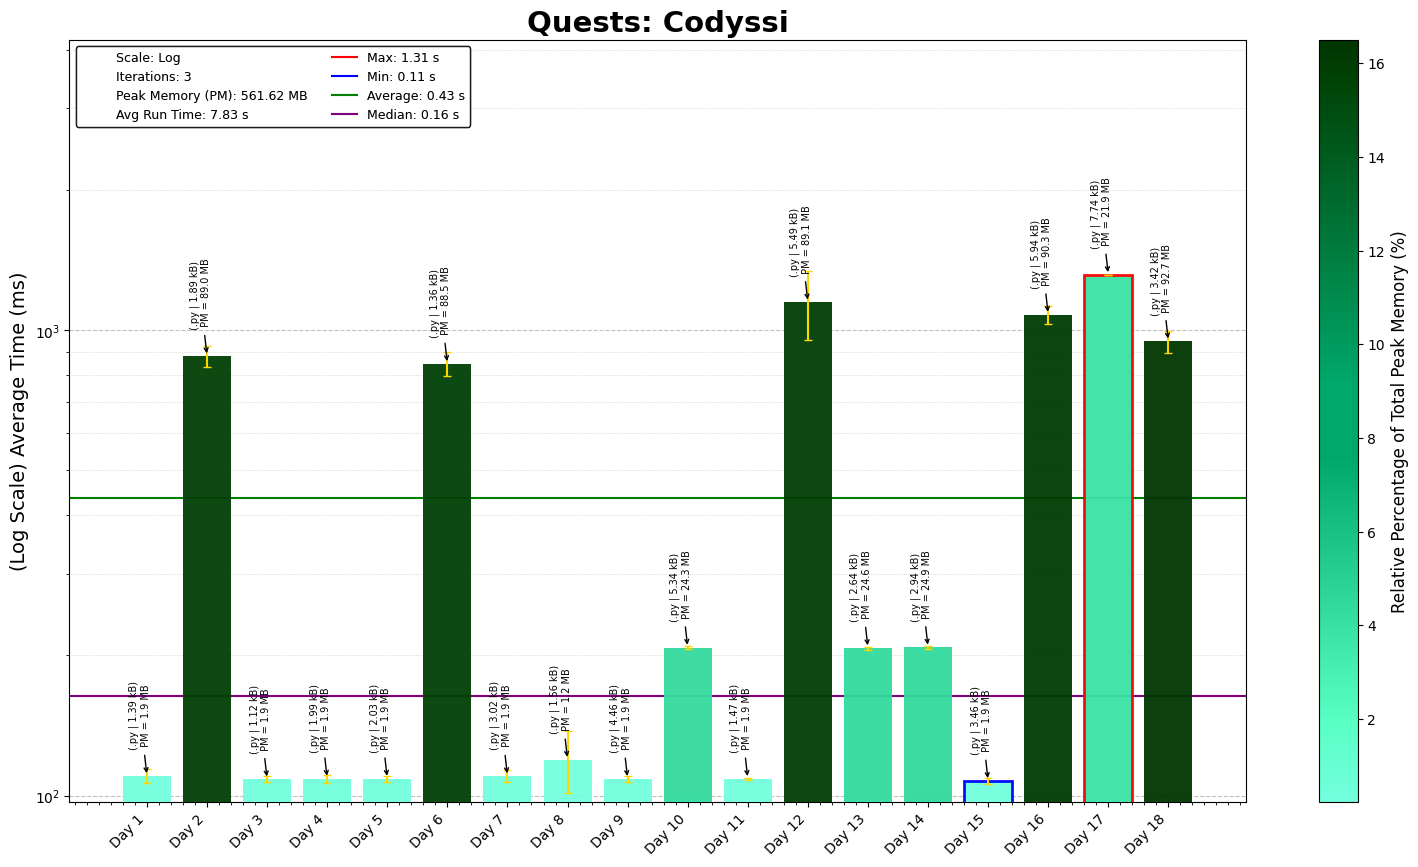
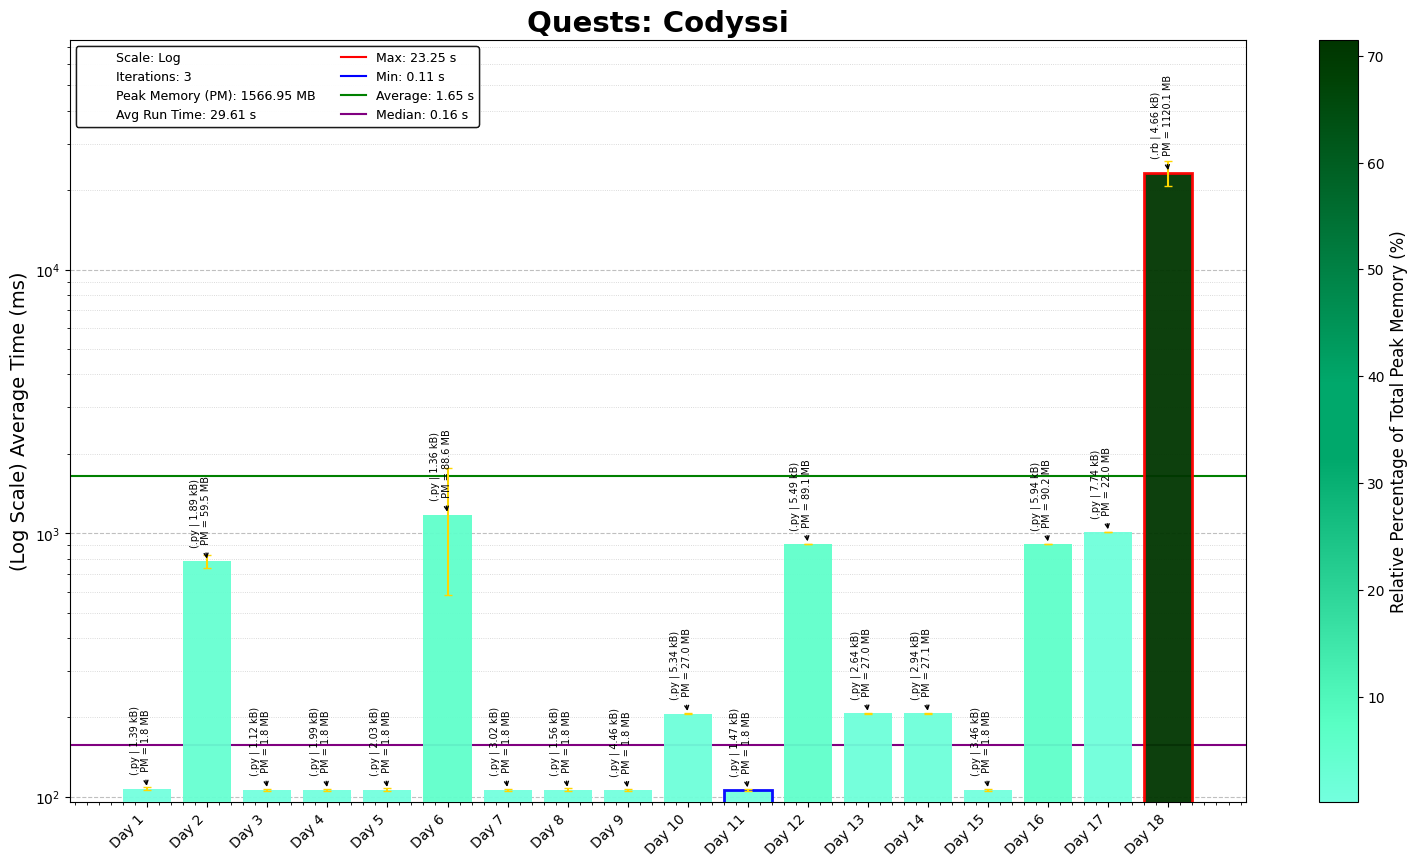
Codyssi Day 18 P2 (~23s)

diff --git a/Codyssi/2025/18/AltCodyssiDay18.py b/Codyssi/2025/18/AltCodyssiDay18.py
@@ -7,17 +7,12 @@ Brief: [Cataclysmic Escape]
 
 #!/usr/bin/env python3
 
-import os, re, copy, time
+import os, re, copy, time, heapq
 from itertools import product
-import numpy as np
-import pandas as pd
-import matplotlib.pyplot as plt
 start_time = time.time()
 
-from collections import deque
-from itertools import product
 # Load the input data from the specified file path
-D18_file = "Day18_input3.txt"
+D18_file = "Day18_input.txt"
 D18_file_path = os.path.join(os.path.dirname(os.path.abspath(__file__)), D18_file)
 
 # Read and sort input data into a grid
@@ -26,16 +21,15 @@ with open(D18_file_path) as file:
     feasible_spaces = {
         "Day18_input1.txt":((10, 15, 60, 3), (9, 14, 59, 0)), "Day18_input2.txt":((3,3,5,3),(2, 2, 4, 0)),
         "Day18_input.txt": ((10, 15, 60, 3),(9, 14, 59, 0)), "Day18_input3.txt":((10, 15, 60, 3), (9, 14, 59, 0))}
-    feasible, target = feasible_spaces[D18_file]
+    feasible, target_coords = feasible_spaces[D18_file]
 
 class Submarine:
     def __init__(self, all_rules, feasible_space):
+        MIN_LIMITS = (0, 0, 0, -1)
         self.idx_map = {"x": 0, "y": 1, "z": 2, "a": 3}
-        self.feasible_space = feasible_space
         self.rule_dict = {}
         for rule in all_rules:
             self.parse_rules(rule)
-        MIN_LIMITS = (0, 0, 0, -1)
         self.space_region = {
             "x" : range(MIN_LIMITS[0], feasible_space[0]),
             "y" : range(MIN_LIMITS[1], feasible_space[1]),
@@ -104,72 +98,71 @@ class Submarine:
         else:
             return pos  # No movement if out-of-bounds
 
+    def __move_particle(self, rule, particle, time = 1, wrapping = True):
+        new_coords = []
+        for dim, idx in self.idx_map.items():
+            velocity = self.rule_dict[rule]["v" + dim]
+            delta = velocity * time
+            moved_pos = self.__wrapped_move(particle[idx], delta, dim, wrapping)
+            new_coords.append(moved_pos)
+        return tuple(new_coords)
+
     def __move_in_dimension(self, coords, move, time = 1, wrapping = False):
         dim, velocity = move
         dim_idx = self.idx_map[dim]
-
         delta = velocity * time
         new_coords = list(coords).copy()
         new_coords[dim_idx] = self.__wrapped_move(coords[dim_idx], delta, dim, wrapping)
         return tuple(new_coords)
 
-    def __move_particle(self, rule, particle, time = 1, wrapping = True):
-        new_coords = []
-        for dim, idx in self.idx_map.items():
-            velocity = self.rule_dict[rule]["v" + dim]
-            # velocity = (1, -1, 0, 1)[idx]
-            delta = velocity * time
-            moved_pos = self.__wrapped_move(particle[idx], delta, dim, wrapping)
-            new_coords.append(moved_pos)
-
-        return tuple(new_coords)
-
     def find_flight_path(self, target, start=(0, 0, 0, 0)):
         ALL_MOVES = list(product(("x", "y", "z"), (1, -1, 0)))
-        debris_map = self.debris_map.copy()
-        visited = set()
-        queue = deque([(start, 0)])
-        position_history = {0: debris_map}
-        min_time = float("inf")
+        MAX_TIME = 200  # upper limit to search; tweak as needed
+        og_debris_map = self.debris_map.copy()
 
-        while queue:
-            current_pos, time_step = queue.popleft()
-            print(current_pos, time_step)
+        # Precompute debris positions per timestep
+        debris_by_time = {0: og_debris_map}
+        for t in range(1, MAX_TIME + 1):
+            for rule, pos in og_debris_map:
+                debris_pos = self.__move_particle(rule, pos, t)
+                debris_by_time.setdefault(t, set()).add(debris_pos)
 
-            if current_pos == target:
-                min_time = min(min_time, time_step)
-                # break
-            if (time_step > min_time) or ((current_pos, time_step) in visited):
+        # Dijkstra/BFS with time dimension
+        heap = [(0, start)]  # (time, position)
+        visited = set()  # track (position, time)
+
+        while heap:
+            time, pos = heapq.heappop(heap)
+
+            if pos == target:
+                return time
+
+            if (pos, time) in visited:
                 continue
-            visited.add((current_pos, time_step))
+            visited.add((pos, time))
 
-            # Compute occupied space by debris at next time step
-            next_time = time_step + 1
-            if next_time in position_history.keys():
-                occupied_space = position_history[next_time].copy()
+            next_time = time + 1
+            if next_time in debris_by_time:
+                occupied = debris_by_time[next_time]
             else:
-                occupied_space = {
-                    self.__move_particle(rule, init_pos, next_time)
-                    for rule, init_pos in debris_map
+                debris_by_time[next_time] = {
+                    self.__move_particle(rule, pos, next_time)
+                        for rule, pos in og_debris_map
                 }
-                position_history[next_time] = occupied_space
 
-            # Try all possible single-dimension moves
             for move in ALL_MOVES:
-                next_pos = self.__move_in_dimension(current_pos, move, time=1)
+                next_pos = self.__move_in_dimension(pos, move, 1)
+                if next_pos not in occupied or next_pos == start:
+                    heapq.heappush(heap, (next_time, next_pos))
 
-                if next_pos not in occupied_space:
-                    queue.append((next_pos, next_time))
-
-        # If target is never reached
-        return min_time
+        return -1  # if unreachable
 
 sub = Submarine(input_data, feasible)
 
 debris = sub.count_debris()
 print("Part 1:", debris)
 
-flight_time = sub.find_flight_path(target)
+flight_time = sub.find_flight_path(target_coords)
 print("Part 2:", flight_time)
 
 print(f"Execution Time = {time.time() - start_time:.5f}s")

diff --git a/Codyssi/2025/18/CodyssiDay18.rb b/Codyssi/2025/18/CodyssiDay18.rb
@@ -1,0 +1,165 @@
+=begin
+Codyssi Puzzles - Problem 18
+Solution Started: May 20, 2025
+Puzzle Link: https://www.codyssi.com/view_problem_22?
+Solution by: Abbas Moosajee
+Brief: [Code/Problem Description]
+=end
+
+#!/usr/bin/env ruby
+
+require 'pathname'
+require 'set'
+require 'time'
+require 'algorithms'
+
+# Define file name and extract complete path to the input file
+D18_file = "Day18_input.txt"
+D18_file_path = Pathname.new(__FILE__).dirname + D18_file
+
+start_time = Time.now
+
+input_data = File.read(D18_file_path).strip.split("\n")
+
+feasible_spaces = {
+  "Day18_input1.txt" => [[10, 15, 60, 3], [9, 14, 59, 0]],
+  "Day18_input2.txt" => [[3, 3, 5, 3], [2, 2, 4, 0]],
+  "Day18_input.txt" => [[10, 15, 60, 3], [9, 14, 59, 0]],
+  "Day18_input3.txt" => [[10, 15, 60, 3], [9, 14, 59, 0]]
+}
+
+feasible, target_coords = feasible_spaces[D18_file]
+
+class Submarine
+  attr_reader :debris_map
+
+  def initialize(all_rules, feasible_space)
+    @idx_map = {"x" => 0, "y" => 1, "z" => 2, "a" => 3}
+    @rule_dict = {}
+    all_rules.each { |rule| parse_rules(rule) }
+
+    min_limits = [0, 0, 0, -1]
+    @space_region = {
+      "x" => (min_limits[0]...feasible_space[0]),
+      "y" => (min_limits[1]...feasible_space[1]),
+      "z" => (min_limits[2]...feasible_space[2]),
+      "a" => (min_limits[3]...feasible_space[3] - 1)
+    }
+
+    @all_coords = @space_region["x"].to_a.product(
+      @space_region["y"].to_a,
+      @space_region["z"].to_a,
+      @space_region["a"].to_a
+    )
+  end
+
+  def parse_rules(rule)
+    rule_no_str, info = rule.split(": ", 2)
+    rule_no = rule_no_str.gsub("RULE ", "").to_i
+    pattern = /(\d+)x\+(\d+)y\+(\d+)z\+(\d+)a DIVIDE (\d+) HAS REMAINDER (\d+) \| DEBRIS VELOCITY \((-?\d+), (-?\d+), (-?\d+), (-?\d+)\)/
+
+    match = pattern.match(info)
+    values = match.captures.map(&:to_i)
+
+    @rule_dict[rule_no] = {
+      "x" => values[0], "y" => values[1], "z" => values[2], "a" => values[3],
+      "div" => values[4], "rem" => values[5],
+      "vx" => values[6], "vy" => values[7], "vz" => values[8], "va" => values[9]
+    }
+  end
+
+  def check_debris(coords, rule_no)
+    rule = @rule_dict[rule_no]
+    total = rule["x"] * coords[0] + rule["y"] * coords[1] + rule["z"] * coords[2] + rule["a"] * coords[3]
+    total % rule["div"] == rule["rem"]
+  end
+
+  def count_debris
+    @debris_map = []
+    @all_coords.each do |coords|
+      @rule_dict.each_key do |rule_no|
+        @debris_map << [rule_no, coords] if check_debris(coords, rule_no)
+      end
+    end
+    @debris_map.length
+  end
+
+  def wrapped_move(pos, delta, dim, wrapping)
+    min_val = @space_region[dim].min
+    max_val = @space_region[dim].max
+    range_size = @space_region[dim].size
+    new_pos = pos + delta
+
+    if wrapping
+      (new_pos - min_val) % range_size + min_val
+    elsif new_pos.between?(min_val, max_val)
+      new_pos
+    else
+      pos
+    end
+  end
+
+  def move_particle(rule, particle, time = 1, wrapping = true)
+    new_coords = []
+    @idx_map.each do |dim, idx|
+      velocity = @rule_dict[rule]["v#{dim}"]
+      delta = velocity * time
+      new_coords[idx] = wrapped_move(particle[idx], delta, dim, wrapping)
+    end
+    new_coords
+  end
+
+  def move_in_dimension(coords, move, time = 1, wrapping = false)
+    dim, velocity = move
+    idx = @idx_map[dim]
+    delta = velocity * time
+    new_coords = coords.dup
+    new_coords[idx] = wrapped_move(coords[idx], delta, dim, wrapping)
+    new_coords
+  end
+
+  def find_flight_path(target, start = [0, 0, 0, 0])
+    all_moves = ["x", "y", "z"].product([1, -1, 0])
+    position_history = {0 => @debris_map.dup}
+    min_time = Float::INFINITY
+    queue = [[start, 0]]
+    visited = Set.new
+    count = 0
+
+    until queue.empty?
+      current_pos, time_step = queue.shift
+      count += 1
+
+      if current_pos == target
+        min_time = [min_time, time_step].min
+        next
+      end
+
+      next if time_step > min_time || visited.include?([current_pos, time_step])
+      visited.add([current_pos, time_step])
+
+      next_time = time_step + 1
+      occupied = position_history[next_time] || Set.new(@debris_map.map { |rule, pos| move_particle(rule, pos, next_time) })
+      position_history[next_time] ||= occupied
+
+      all_moves.each do |move|
+        next_pos = move_in_dimension(current_pos, move)
+        if !occupied.include?(next_pos) || next_pos == start
+          queue << [next_pos, next_time]
+        end
+      end
+    end
+
+    min_time
+  end
+end
+
+sub = Submarine.new(input_data, feasible)
+
+debris = sub.count_debris
+puts "Part 1: #{debris}"
+
+flight_time = sub.find_flight_path(target_coords)
+puts "Part 2: #{flight_time}"
+
+# puts "Execution Time = #{Time.now - start_time}s"
